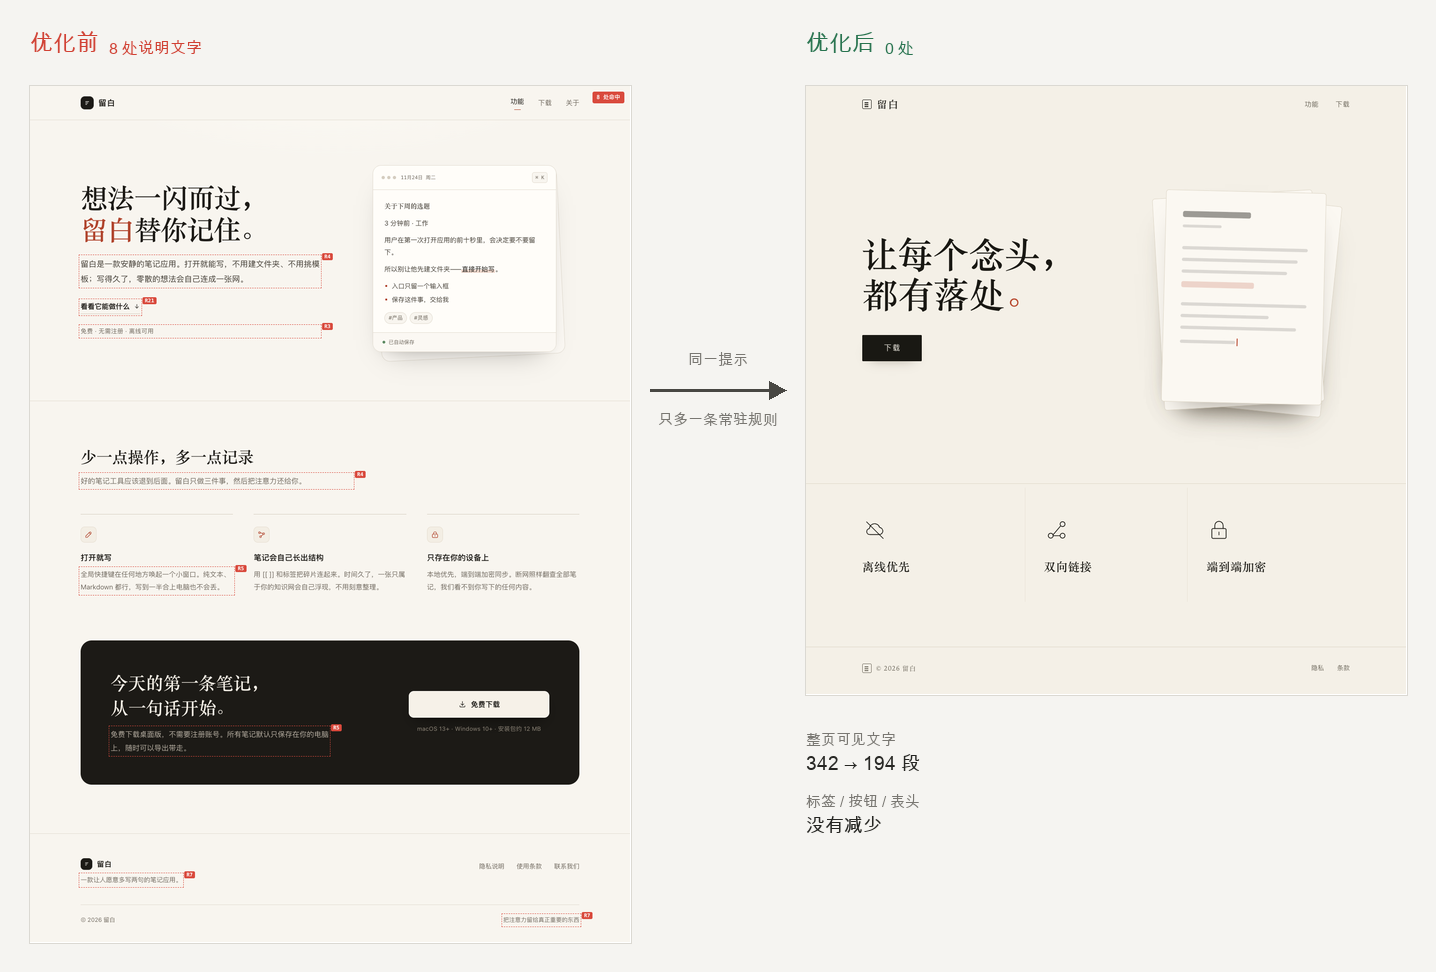
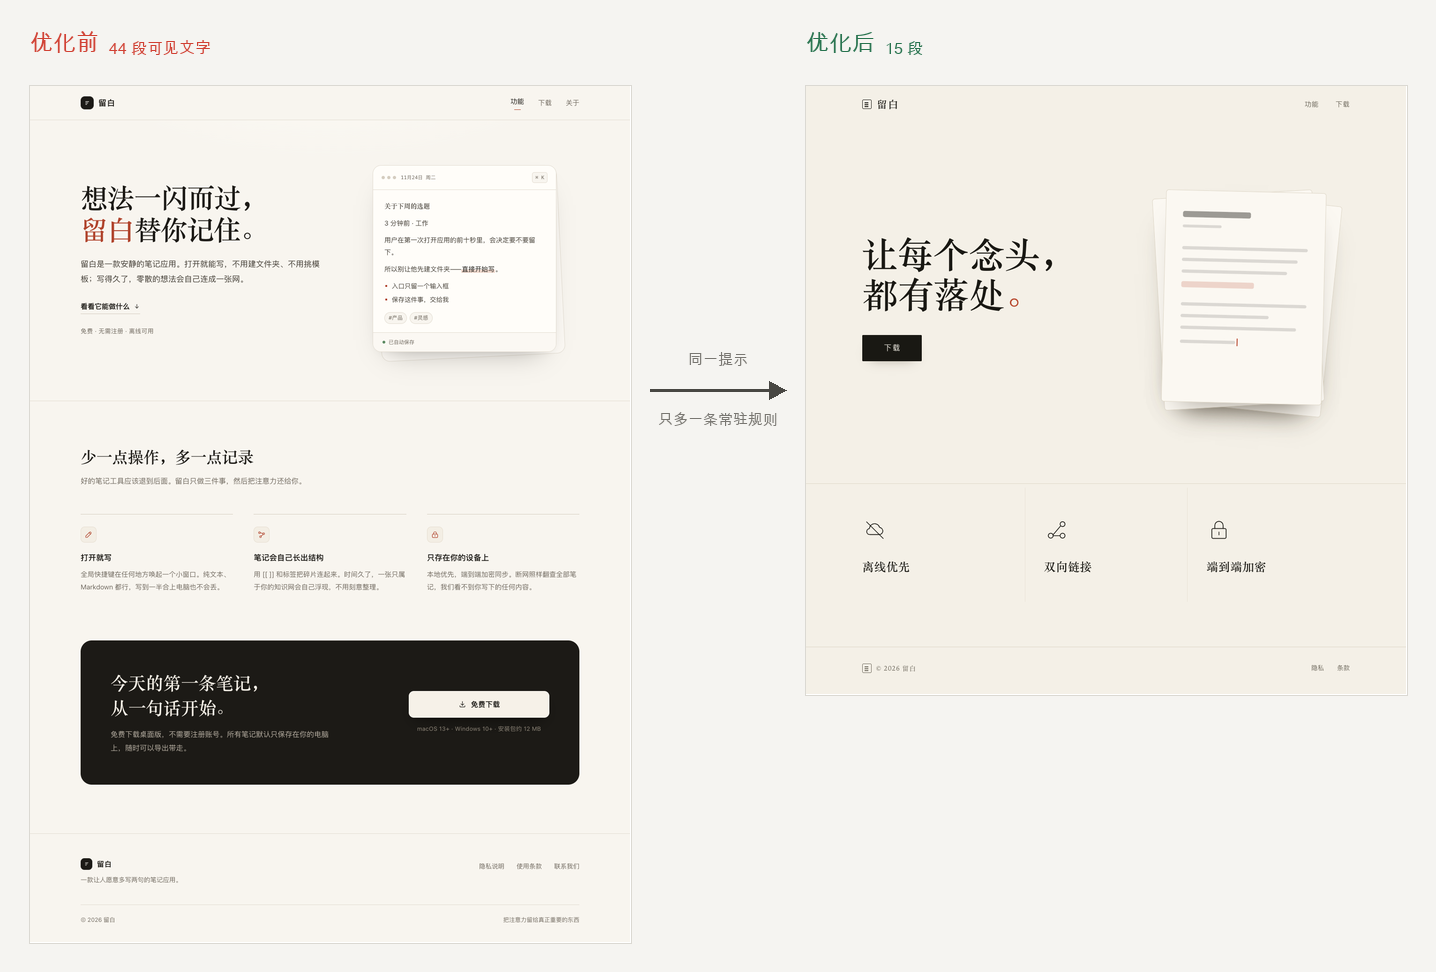
修正对比图的数字：按扫描器真实输出重标（4 处 / 3 处），hero 改为文字量口径；新增漏检图；R21 补四向箭头

diff --git a/mark.py b/mark.py
@@ -1,0 +1,70 @@
+#!/usr/bin/env python3
+"""Annotate a page using the scanner's own findings, never a hand-picked list.
+
+Usage: mark.py <page.html> <out.html>
+"""
+import json
+import pathlib
+import subprocess
+import sys
+
+JS = """
+<script>
+(function(){
+  var marks = %s, placed = 0, W = document.documentElement.clientWidth;
+  marks.forEach(function(m){
+    var best = null, area = Infinity;
+    document.querySelectorAll('body *').forEach(function(el){
+      if (/^(SCRIPT|STYLE|SVG|PATH)$/.test(el.tagName)) return;
+      var t = (el.textContent || '').trim();
+      if (t.indexOf(m.key) === -1) return;
+      var r = el.getBoundingClientRect();
+      if (r.width < 4 || r.height < 4) return;
+      var a = r.width * r.height;
+      if (a < area) { area = a; best = el; }
+    });
+    if (!best) return;
+    placed++;
+    var r = best.getBoundingClientRect();
+    best.style.outline = '1.5px dashed #d94a3d';
+    best.style.outlineOffset = '3px';
+    var b = document.createElement('span');
+    b.textContent = m.rule;
+    b.style.cssText = 'position:absolute;z-index:99999;font:600 11px/1 ui-monospace,monospace;'
+      + 'background:#d94a3d;color:#fff;padding:2px 5px;border-radius:3px;pointer-events:none;white-space:nowrap;';
+    var left = scrollX + r.right + 5;
+    if (left + 40 > W) left = scrollX + Math.max(r.left - 44, 2);
+    b.style.left = left + 'px';
+    b.style.top = (scrollY + r.top - 7) + 'px';
+    document.body.appendChild(b);
+  });
+  var s = document.createElement('div');
+  s.textContent = placed + ' 处命中';
+  s.style.cssText = 'position:fixed;right:12px;top:12px;z-index:99998;font:600 12px/1.4 ui-monospace,monospace;'
+    + 'background:#d94a3d;color:#fff;padding:4px 9px;border-radius:4px;';
+  document.body.appendChild(s);
+})();
+</script>
+"""
+
+
+def main(page, out):
+    audit = pathlib.Path(__file__).with_name("audit_copy.py")
+    raw = subprocess.run([sys.executable, str(audit), page, "--json"],
+                         capture_output=True, text=True, check=True).stdout
+    findings = json.loads(raw)[0]["findings"]
+    marks = []
+    for f in findings:
+        text = f["text"].strip()
+        key = text[:14] if len(text) > 14 else text
+        marks.append({"key": key, "rule": f["rule"].split("-")[0]})
+    html = pathlib.Path(page).read_text(encoding="utf-8")
+    html = html.replace("</body>", JS % json.dumps(marks, ensure_ascii=False) + "</body>")
+    html = html.replace("</head>", "<style>*,*::before,*::after{animation:none!important;"
+                                    "transition:none!important;opacity:1!important}</style></head>")
+    pathlib.Path(out).write_text(html, encoding="utf-8")
+    print("{}: {} findings -> {}".format(page, len(findings), out))
+
+
+if __name__ == "__main__":
+    main(sys.argv[1], sys.argv[2])

diff --git a/audit_copy.py b/audit_copy.py
@@ -74,7 +74,7 @@ NOTICE_CLASS = re.compile(r"tooltip|inline-note|callout|notice|banner|toast|\bhi
 NOTICE_EXEMPT = re.compile(r"error|invalid|danger|warning|\balert\b", re.I)
 SHADCN_DESC = {"carddescription", "alertdescription", "dialogdescription", "sheetdescription",
                "drawerdescription", "formdescription", "popoverdescription", "contextmenudescription"}
-ARROW = re.compile(r"(\u2192|&rarr;|\u203a|\u00bb|\u2794|\u279c|\u27f6)")
+ARROW = re.compile(r"(\u2190|\u2191|\u2192|\u2193|&rarr;|&larr;|\u203a|\u00bb|\u2794|\u279c|\u27f6)")
 BRIDGE = [r"^or\s+(continue|sign|use|choose|pick)\b", r"^or\b.{0,20}$", r"^或(继续|使用|选择)", r"^或者"]
 NUMBERING = [
     r"^\s*0?\d{1,2}\s*(//|/|·|•|\||—|–|-|:|：)\s*$",

diff --git a/skills/quiet-ui/scripts/audit_copy.py b/skills/quiet-ui/scripts/audit_copy.py
@@ -74,7 +74,7 @@ NOTICE_CLASS = re.compile(r"tooltip|inline-note|callout|notice|banner|toast|\bhi
 NOTICE_EXEMPT = re.compile(r"error|invalid|danger|warning|\balert\b", re.I)
 SHADCN_DESC = {"carddescription", "alertdescription", "dialogdescription", "sheetdescription",
                "drawerdescription", "formdescription", "popoverdescription", "contextmenudescription"}
-ARROW = re.compile(r"(\u2192|&rarr;|\u203a|\u00bb|\u2794|\u279c|\u27f6)")
+ARROW = re.compile(r"(\u2190|\u2191|\u2192|\u2193|&rarr;|&larr;|\u203a|\u00bb|\u2794|\u279c|\u27f6)")
 BRIDGE = [r"^or\s+(continue|sign|use|choose|pick)\b", r"^or\b.{0,20}$", r"^或(继续|使用|选择)", r"^或者"]
 NUMBERING = [
     r"^\s*0?\d{1,2}\s*(//|/|·|•|\||—|–|-|:|：)\s*$",

diff --git a/README.md b/README.md
@@ -1,12 +1,10 @@
 # quiet-ui
 
-<img src="assets/landing-annotated.png" width="100%" alt="优化前后对比：左侧落地页标出 8 处说明文字，右侧同一提示加上常驻规则后为 0 处，中间箭头标注同一提示只多一条常驻规则">
-
-*红框是扫描器报出的位置。*
+<img src="assets/landing-annotated.png" width="100%" alt="优化前后对比：同一个提示词下，左侧落地页有 44 段可见文字，右侧加上常驻规则后剩 15 段">
 
 **这是一个 Agent Skill**，叫 `quiet-ui`。做界面时按它的六条规则写文字，清理旧页面时按清单删。附一个扫描器，用来数命中的位置，也用来做提交前检查。
 
-六个界面、三种配置跑完：加上这条规则，每页的说明文字都归零，整页文字少了四成，标签和按钮没有少。
+六个界面、三种配置跑完：加上这条规则，扫描器口径下每页归零，整页文字少了四成，标签和按钮没有少。
 
 ## 安装
 
@@ -95,9 +93,9 @@ after-landing.html   tells=0   text_runs=11
 
 A 臂在临时移除规则的窗口里跑（备份、移除、跑完恢复，校验和一致），B/C 在规则常驻下跑。
 
-登录页那一对，五处降到零：
+登录页那一对，3 处降到零：
 
-<img src="assets/auth-annotated.png" width="100%" alt="优化前后对比：左侧登录页标出欢迎语、副标题、衔接词、复选框说明和状态点共五处，右侧同一提示加规则后为零">
+<img src="assets/auth-annotated.png" width="100%" alt="优化前后对比：左侧登录页被扫描器标出 3 处，右侧同一提示加规则后为零">
 
 ### 说明
 
@@ -109,12 +107,15 @@ A 臂在临时移除规则的窗口里跑（备份、移除、跑完恢复，校
 
 ### 人眼复核
 
-`shots/` 是四张截图。无规则那臂的落地页和登录页有眉标签、`✓` 要点列表、状态点、页脚标语；B/C 两臂没有。
+扫描器报 0 条只说明它没抓到，不说明页面干净。拿 `shots/` 的四张截图看了一遍，三类痕迹它看不见：
 
-看截图时发现扫描器漏了三类：`↓` 箭头、`✓` 要点列表、页脚标语。B 臂里剩下的 `uppercase` 是产品 wordmark 和表头，`spark-dot` 是图表数据点，都正常。
+<img src="assets/missed-by-scanner.png" width="100%" alt="三类漏检：CSS 画的向下箭头、勾选要点列表、页脚标语">
+
+B 臂里剩下的 `uppercase` 是产品 wordmark 和表头，`spark-dot` 是图表数据点，都不算问题。这也是为什么这里只把扫描器当尺子，不当验收线。
 
 ## 已知限制
 
+- 召回不高。无规则那臂的落地页肉眼能看出十来处，扫描器只报 4 条。
 - 纯启发式，靠类名和短语表。换一套设计系统就会漏。
 - 只适合做相对比较，绝对值不可当验收线。
 - 中文短语表比英文短，中文页面召回率更低。
@@ -131,6 +132,7 @@ pilot/                 第一组 A/B，含规则事后生效的两版
 matrix/                第一轮 6×3
 matrix2/               第二轮 B/C（规则换回原文）
 shots/                 人眼复核截图
+mark.py                按扫描器输出自动标注页面，用来生成对比图
 skills/quiet-ui/       兜底 skill：SKILL.md + scripts/audit_copy.py + tests/
 ```
 

diff --git a/skills/quiet-ui/SKILL.md b/skills/quiet-ui/SKILL.md
@@ -187,7 +187,7 @@ HUD 只放会变的状态：分数、血量、资源、背包数量。
 | R18 | 衔接词（"or continue with"） |
 | R19 | 提示框 / callout（错误、警告、空状态已豁免） |
 | R20 | shadcn 的 `CardDescription` / `AlertDescription` 等描述组件 |
-| R21 | 链接和按钮后面的 `→` `›` `»` |
+| R21 | 文字里的箭头 `←` `↑` `→` `↓` `›` `»`（CSS 画的箭头看不到） |
 
 启发式，会误报也会漏报。**它是尺子，不是判官**：0 条不等于干净，只是没被这套规则抓到。
 自检：`python3 tests/run_tests.py`。
